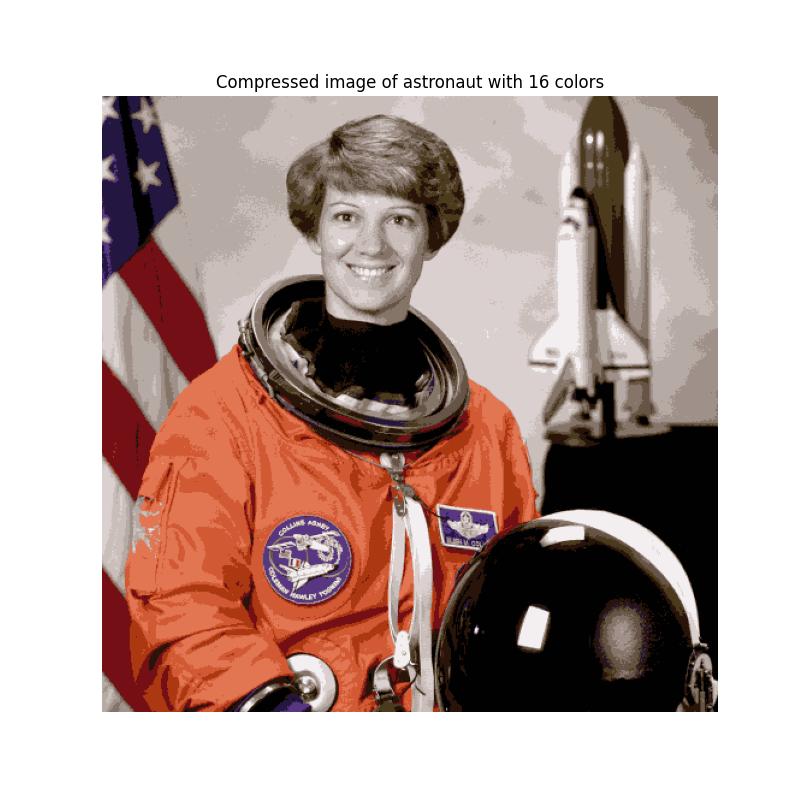
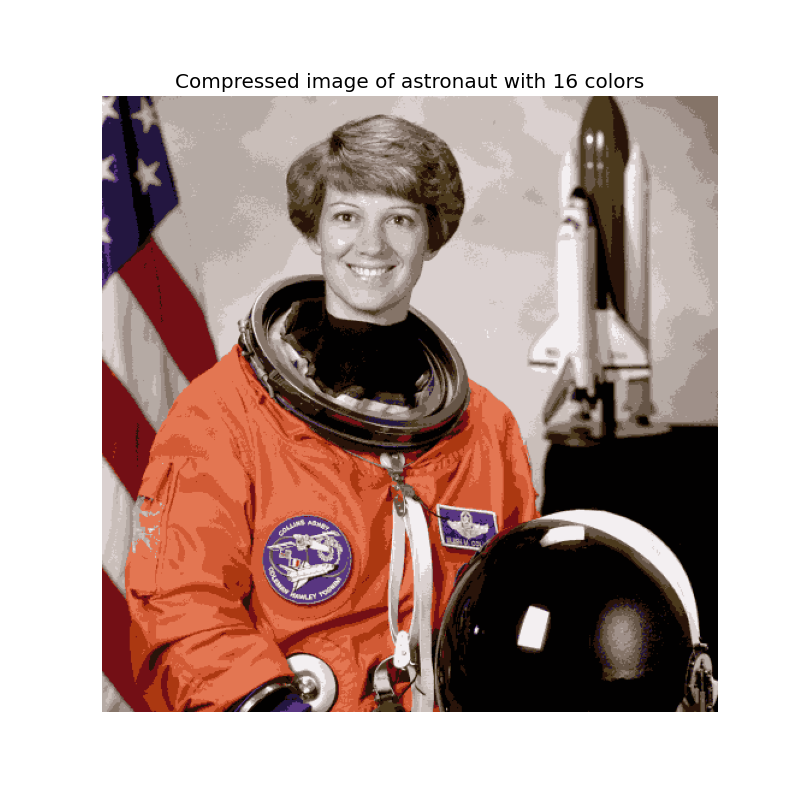
vqvae

Changed region(s): [[0.2188, 0.0938, 0.8125, 0.125]]

diff --git a/source/ch3-vae/vq/demo_2d.py b/source/ch3-vae/vq/demo_2d.py
@@ -3,9 +3,11 @@ import numpy as np
 import matplotlib.pyplot as plt
 from sklearn.cluster import KMeans
 from skimage import data, img_as_float
+from scipy.spatial import Voronoi, voronoi_plot_2d
 from sklearn.metrics import mean_squared_error
 from math import log10, sqrt
 
+plt.style.use('ggplot')
 def load_image(image_name):
     if image_name == "astronaut":
         return img_as_float(data.astronaut())
@@ -15,32 +17,60 @@ def load_image(image_name):
         raise ValueError("Unsupported image name. Choose from 'astronaut' or 'camera'.")
 
 def compress_image_kmeans(image, n_colors):
-    w, h, d = image.shape
+    w, h = image.shape[:2]
+    d = image.shape[2] if image.ndim == 3 else 1
     image_array = np.reshape(image, (w * h, d))
 
     kmeans = KMeans(n_clusters=n_colors, random_state=0).fit(image_array)
     labels = kmeans.predict(image_array)
 
     compressed_image = kmeans.cluster_centers_[labels].reshape(w, h, d)
+    if d == 1:
+        compressed_image = compressed_image[:, :, 0]
     return compressed_image, kmeans.cluster_centers_
 
 def plot_image(image, title, save_path):
     plt.figure(figsize=(8, 8))
-    plt.imshow(image)
+    if image.ndim == 2:
+        plt.imshow(image, cmap='gray')
+    else:
+        plt.imshow(image)
     plt.title(title)
     plt.axis('off')
     plt.savefig(save_path)
     plt.show()
 
 def calculate_psnr(original, compressed):
-    original = original.reshape(-1, original.shape[-1])
-    compressed = compressed.reshape(-1, compressed.shape[-1])
+    original = original.reshape(-1, original.shape[-1] if original.ndim == 3 else 1)
+    compressed = compressed.reshape(-1, compressed.shape[-1] if compressed.ndim == 3 else 1)
     mse = mean_squared_error(original, compressed)
     if mse == 0:
         return float('inf')
     max_pixel = 1.0  # Since img_as_float scales the image between 0 and 1
     psnr = 20 * log10(max_pixel / sqrt(mse))
     return psnr
+
+def plot_voronoi(centroids):
+    if centroids.shape[1] > 2:
+        centroids = centroids[:, :2]  # Take only the first two dimensions for Voronoi plotting
+
+    vor = Voronoi(centroids)
+
+    fig, ax = plt.subplots(figsize=(8, 8))
+    voronoi_plot_2d(vor, ax=ax, show_vertices=False, line_colors='blue', line_width=1.5, line_alpha=0.6)
+
+    # Plot the centroids
+    ax.plot(centroids[:, 0], centroids[:, 1], 'r*', markersize=10)
+
+    # Set plot limits
+    ax.set_xlim(centroids[:, 0].min() - 1, centroids[:, 0].max() + 1)
+    ax.set_ylim(centroids[:, 1].min() - 1, centroids[:, 1].max() + 1)
+
+    # Add title
+    plt.title("Vector Quantization with Voronoi Diagram")
+
+    # Show plot
+    plt.show()
 
 def main(image_name, n_colors):
     image = load_image(image_name)
@@ -49,11 +79,13 @@ def main(image_name, n_colors):
 
     plot_image(image, f"Original image of {image_name}", f"{image_name}_original.png")
 
-    compressed_image, _ = compress_image_kmeans(image, n_colors)
+    compressed_image, centroids = compress_image_kmeans(image, n_colors)
     plot_image(compressed_image, f"Compressed image of {image_name} with {n_colors} colors", f"{image_name}_compressed_{n_colors}.png")
 
     psnr = calculate_psnr(image, compressed_image)
     print(f"PSNR: {psnr}")
+
+    plot_voronoi(centroids)
 
 if __name__ == "__main__":
     parser = argparse.ArgumentParser(description="2D Vector Quantization using k-means clustering.")

diff --git a/source/ch3-vae/vq/voronoi.py b/source/ch3-vae/vq/voronoi.py
@@ -1,0 +1,34 @@
+import numpy as np
+import matplotlib.pyplot as plt
+from sklearn.cluster import KMeans
+from scipy.spatial import Voronoi, voronoi_plot_2d
+
+# Generate synthetic 2D data
+np.random.seed(0)
+n_samples = 300
+X = np.random.randn(n_samples, 2)
+
+# Perform k-means clustering
+n_clusters = 16
+kmeans = KMeans(n_clusters=n_clusters, random_state=0).fit(X)
+centroids = kmeans.cluster_centers_
+
+# Create a Voronoi diagram based on the cluster centroids
+vor = Voronoi(centroids)
+
+# Plot the Voronoi diagram
+fig, ax = plt.subplots(figsize=(8, 8))
+voronoi_plot_2d(vor, ax=ax, show_vertices=False, line_colors='blue', line_width=1.5, line_alpha=0.6)
+
+# Plot the centroids
+ax.plot(centroids[:, 0], centroids[:, 1], 'r*', markersize=10)
+
+# Set plot limits
+ax.set_xlim(-4, 4)
+ax.set_ylim(-4, 4)
+
+# Add title
+plt.title("Vector Quantization")
+
+# Show plot
+plt.show()

diff --git a/source/ch3-vae/vq/demo_1d.py b/source/ch3-vae/vq/demo_1d.py
@@ -29,7 +29,8 @@ def load_image(image_name, gray=True):
     elif image_name == "astronaut":
         return data.astronaut() if not gray else data.astronaut()[:, :, 0]
     elif image_name == "camera":
-        return data.camera()
+        x = data.camera()
+        return x
     else:
         raise ValueError("Unsupported image name. Choose from 'raccoon', 'astronaut', or 'camera'.")
 
